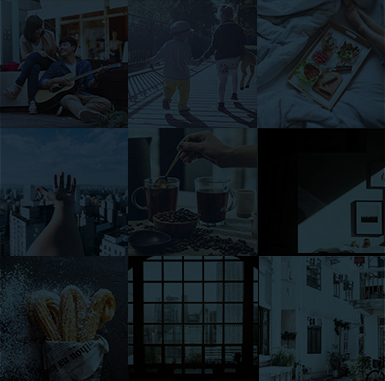
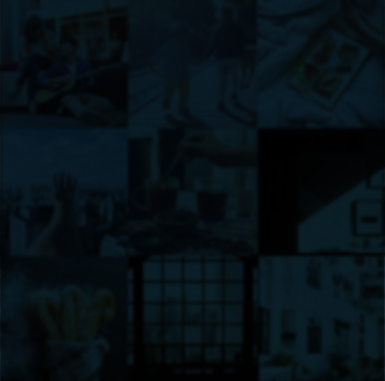
Create navigation slide down when scrolling down to 300px / Create new background animation slide for how to play section /  Create footer / Create space for feed hastag from instagram

diff --git a/index.html b/index.html
@@ -37,7 +37,7 @@
 				</a>
 			</li>
 			<li>
-				<a href="#section4" data-number="4">
+				<a href="#live" data-number="4">
 					<span class="cd-dot"></span>
 					<span class="cd-label">Live</span>
 				</a>
@@ -57,12 +57,26 @@
 		</ul>
 	</nav>
 	<a class="cd-nav-trigger cd-img-replace">Open navigation<span></span></a>
+
+	<div class="nav_bar">
+		<div class="TLS_Nav">
+				<img src="./images/TLS-Logo.svg" class="img-responsive" alt="The Lofts Silom by Raimon Land">			
+		</div>
+		<div class="lang_bar">
+			<ul>
+				<li><a href="#">EN</a></li>
+				<li>|</li>
+				<li><a href="#">TH</a></li>
+			</ul>
+		</div>
+	</div>
+
 	<div class="lang_bar">
-		<ul>
-			<li><a href="#">EN</a></li>
-			<li>|</li>
-			<li><a href="#">TH</a></li>
-		</ul>
+			<ul>
+				<li><a href="#">EN</a></li>
+				<li>|</li>
+				<li><a href="#">TH</a></li>
+			</ul>
 	</div>
 
 	<!-- Home Sectoin -->
@@ -133,55 +147,66 @@
 	</section><!-- cd-section -->
 
 	<section id="howtoplay" class="cd-section">
-		<div class="row">
-			<div class="col-md-6 text_campaign">
-					<h3>What is Your <br>Symphony of Life?</h3>				
+		<div class="top">
+			<div class="row">
+				<div class="col-md-6 text_campaign">
+						<h3>What is Your <br>Symphony of Life?</h3>				
+				</div>
 			</div>
-		</div>
-		<div class="row">
-			<div class="col-md-6 text_campaign left">
-				<p>The Lofts Silom invites you to express what your “Symphony of Life” is by sharing your moments happening at Silom / Sathorn area on your Facebook or Instagram and hashtag</p> 
-				<div class="text_hashtag">#symphonyoflife / #theloftssilom
-					<span>to win big prizes.</span>
-				</div> 
+			<div class="row">
+				<div class="col-md-6 text_campaign left">
+					<p>The Lofts Silom invites you to express what your “Symphony of Life” is by sharing your moments happening at Silom / Sathorn area on your Facebook or Instagram and hashtag</p> 
+					<div class="text_hashtag">#symphonyoflife / #theloftssilom
+						<span>to win big prizes.</span>
+					</div> 
+				</div>
+				<div class="col-md-6 text_campaign right">
+					<p>How to participate</p>
+						<ol class="custom-counter">
+							<li>Share your beautiful lifestyles which happen at Silom / Sathorn area. <br>It could be text, photo, or graphic posting on your Facebook or Instagram.</li>
+							<li>Hashtag #symphonyoflife and #theloftssilom</li>
+							<li>Tag @raimonland</li>
+							<li>Don’t forget to set your post as PUBLIC!</li>
+							<li>Wait for your chance</li>
+						</ol>
+					<div class="text_winner">Winner Announcement on 1 October 2017<br> Only you can tell what your “Symphony of Life” is.</div>
+				</div>
 			</div>
-			<div class="col-md-6 text_campaign right">
-				<p>How to participate</p>
-					<ol class="custom-counter">
-						<li>Share your beautiful lifestyles which happen at Silom / Sathorn area. <br>It could be text, photo, or graphic posting on your Facebook or Instagram.</li>
-						<li>Hashtag #symphonyoflife and #theloftssilom</li>
-						<li>Tag @raimonland</li>
-						<li>Don’t forget to set your post as PUBLIC!</li>
-						<li>Wait for your chance</li>
-					</ol>
-				<div class="text_winner">Winner Announcement on 1 October 2017<br> Only you can tell what your “Symphony of Life” is.</div>
-			</div>
-		</div>
-		<div class="row">
-			<div class="col-md-5 text_campaign">
-				<ul>
-					<li>- 1st Prize 3 x Bang & Olufsen – BeoPlay P2 portable speaker worth THB 7,890 </li>
-					<li>- 2nd Prize 3 x Polaroid snap touch instant camera worth THB 7,890</li>
-					<li>- 3rd Prize 3 x Jo Malone Pomegranate Noir Scent Surround™ Diffuser worth THB 3,900</li>
-					<li>- 4th Prize 30 x Devarana spa at Dusit Thanit voucher worth THB 2,400</li>
-					<li>- 5th Prize 100 x Dining Voucher at Baan Ying Restaurant worth THB 500</li>
-				</ul>
+			<div class="row">
+				<div class="col-md-5 text_campaign">
+					<ul>
+						<li>- 1st Prize 3 x Bang & Olufsen – BeoPlay P2 portable speaker worth THB 7,890 </li>
+						<li>- 2nd Prize 3 x Polaroid snap touch instant camera worth THB 7,890</li>
+						<li>- 3rd Prize 3 x Jo Malone Pomegranate Noir Scent Surround™ Diffuser worth THB 3,900</li>
+						<li>- 4th Prize 30 x Devarana spa at Dusit Thanit voucher worth THB 2,400</li>
+						<li>- 5th Prize 100 x Dining Voucher at Baan Ying Restaurant worth THB 500</li>
+					</ul>
+				</div>
 			</div>
 		</div>
 		<div class="col-sm-12 tab_highlight">Winner Announcement on 1 October 2017</div>
 	</section><!-- cd-section -->
 
-	<section id="section4" class="cd-section">
-		<p>&ldquo;Lorem ipsum dolor sit amet, consectetur adipisicing elit. Architecto numquam, totam iusto officia earum perferendis, culpa ad atque eveniet praesentium nobis expedita similique beatae tenetur. Distinctio vel tenetur, id cum.&rdquo;</p>
+	<section id="live" class="cd-section">
+		<h3>#SYMPHONYOFLIFE / #THELOFTSSILOM</h3>
 	</section><!-- cd-section -->
 
-	<section id="section5" class="cd-section">
+	<!-- <section id="section5" class="cd-section">
 		<p>&ldquo;Lorem ipsum dolor sit amet, consectetur adipisicing elit. Architecto numquam, totam iusto officia earum perferendis, culpa ad atque eveniet praesentium nobis expedita similique beatae tenetur. Distinctio vel tenetur, id cum.&rdquo;</p>
-	</section><!-- cd-section -->
+	</section>cd-section -->
 
-	<section id="section6" class="cd-section">
+	<!-- <section id="section6" class="cd-section">
 		<p>&ldquo;Lorem ipsum dolor sit amet, consectetur adipisicing elit. Architecto numquam, totam iusto officia earum perferendis, culpa ad atque eveniet praesentium nobis expedita similique beatae tenetur. Distinctio vel tenetur, id cum.&rdquo;</p>
-	</section><!-- cd-section -->
+	</section>cd-section -->
+	
+	<footer>
+		<div class="rml_logo">
+			<a href="http://www.raimonland.com" target="_blank"><img src="./images/RML_Logo_White.svg" alt="Raimon Land PCL." class="img-responsive"></a>
+		</div>
+		<div class="copyright">
+			<p>© Copyright 2017 Raimon Land PCL. All rights reserved.</p>
+		</div>
+	</footer>
 	
 <script src="js/jquery-2.1.1.js"></script>
 <script src="js/bootstrap.min.js"></script>

diff --git a/css/style.css b/css/style.css
@@ -71,13 +71,19 @@ Main components
   color: #bda3ad;
 }
 
+.TLS_Nav{
+  display: none;
+  width: 100px;
+  float: left;
+}
+
 
 .lang_bar {
   position: absolute;
   z-index: 99;
   right: 0;
   font-size: 16px;
-  margin: 50px 40px 0 0;
+  margin: 50px 50px 0 0;
 }
 .lang_bar li {
   display: inline-block;
@@ -88,6 +94,40 @@ Main components
 .lang_bar li a {
   color: #9e8d67;
 }
+
+.nav_bar{ 
+  background-color: rgba(10, 31, 41, 0.9);
+  height: 100px;
+  position: fixed;
+  top: -100px;
+  width: 100%;
+  z-index: 999;
+  padding: 15px 50px 15px 100px;
+  -webkit-transition: all 0.5s ease-in-out;
+  -moz-transition: all 0.5s ease-in-out;
+  transition: all 0.5s ease-in-out;
+}
+
+.nav_bar.navbar-fixed {
+  top: 0;
+  /* display: inline-block; */
+}
+
+.nav_bar.navbar-fixed .TLS_Nav{
+  display:inline-block;
+}
+
+.nav_bar.navbar-fixed .lang_bar {
+  position: relative;
+  z-index: 99;
+  right: 0;
+  font-size: 16px;
+  float: right;
+  margin: 40px 0 0;
+}
+
+
+
 
 
 /* Home section */
@@ -173,7 +213,7 @@ Main components
   background-image: url("../images/bg_howtoplay.jpg");
   background-position: center center;
   background-size: cover;
-  padding: 100px;
+  padding: 0;
   width: 100%;
 }
 
@@ -218,6 +258,7 @@ Main components
   font-size: 26px;
   line-height: 28px;
   margin-bottom: 20px;
+  text-transform: uppercase;
 }
 .custom-counter{
     color: #ffffff;
@@ -230,6 +271,7 @@ Main components
   color: #fff;
   font-size: 24px;
   line-height: 34px;
+  font-family: din-medium;
   margin-top: 30px;
 }
 
@@ -255,6 +297,106 @@ Main components
   vertical-align: middle;
   width: 100%;
 }
+
+
+#howtoplay .top { 
+	background:#000 url("../images/photo-tile-bg.jpg") repeat; 
+	font-family: 'Open Sans',arial,serif;
+	padding: 100px;
+	-webkit-animation: bgAnimate 25s infinite linear;
+	-moz-animation: bgAnimate 25s infinite linear;
+	-ms-animation: bgAnimate 25s infinite linear;
+	-o-animation: bgAnimate 25s infinite linear;
+	animation: bgAnimate 25s infinite linear;
+}
+
+@-webkit-keyframes bgAnimate {
+    from {
+        background-position: 0 0;
+    }
+
+    to {
+        background-position: 100% 0;
+    }
+}
+
+@-moz-keyframes bgAnimate {
+    from {
+        background-position: 0 0;
+    }
+
+    to {
+        background-position: 100% 0;
+    }
+}
+
+@-ms-keyframes bgAnimate {
+    from {
+        background-position: 0 0;
+    }
+
+    to {
+        background-position: 100% 0;
+    }
+}
+
+@-o-keyframes bgAnimate {
+    from {
+        background-position: 0 0;
+    }
+
+    to {
+        background-position: 100% 0;
+    }
+}
+
+@keyframes bgAnimate {
+    from {
+        background-position: 0 0;
+    }
+
+    to {
+        background-position: 100% 0;
+    }
+}
+
+/* Live Section */
+
+#live {
+  /* min-height: auto; */
+  padding: 50px 100px;
+}
+#live > h3 {
+  font-size: 3rem;
+  text-align: center;
+  color: #000000;
+}
+
+
+/* Footer Section */
+
+
+footer{
+  background-color: #0a1f29;
+  height: 100px;
+  padding: 20px 100px;
+}
+
+footer .rml_logo {
+  float: left;
+  width: 90px;
+}
+footer .copyright > p {
+  color: #ffffff;
+  float: right;
+  font-family: din-medium;
+  font-size: 12px;
+  margin: 0;
+  padding: 30px 0;
+  position: relative;
+  text-transform: uppercase;
+}
+
 
 .custom-counter li {
   font-family: tahoma;
@@ -425,7 +567,7 @@ Main components
   height: 12px;
   width: 12px;
   border-radius: 50%;
-  background-color: #08161d;
+  background-color: #999999;
   -webkit-transition: -webkit-transform 0.2s, background-color 0.5s;
   -moz-transition: -moz-transform 0.2s, background-color 0.5s;
   transition: transform 0.2s, background-color 0.5s;

diff --git a/js/main.js b/js/main.js
@@ -16,7 +16,21 @@ jQuery(document).ready(function($){
     $('.cd-scroll-down').on('click', function(event){
         event.preventDefault();
         smoothScroll($(this.hash));
-    });
+	});
+	
+	$(window).scroll(function () {
+		//if you hard code, then use console
+		//.log to determine when you want the 
+		//nav bar to stick.  
+		console.log($(window).scrollTop())
+	  if ($(window).scrollTop() > 300) {
+		$('.nav_bar').addClass('navbar-fixed');
+	  }
+	  if ($(window).scrollTop() < 301) {
+		$('.nav_bar').removeClass('navbar-fixed');
+	  }
+	});
+
 
     //open-close navigation on touch devices
     $('.touch .cd-nav-trigger').on('click', function(){
